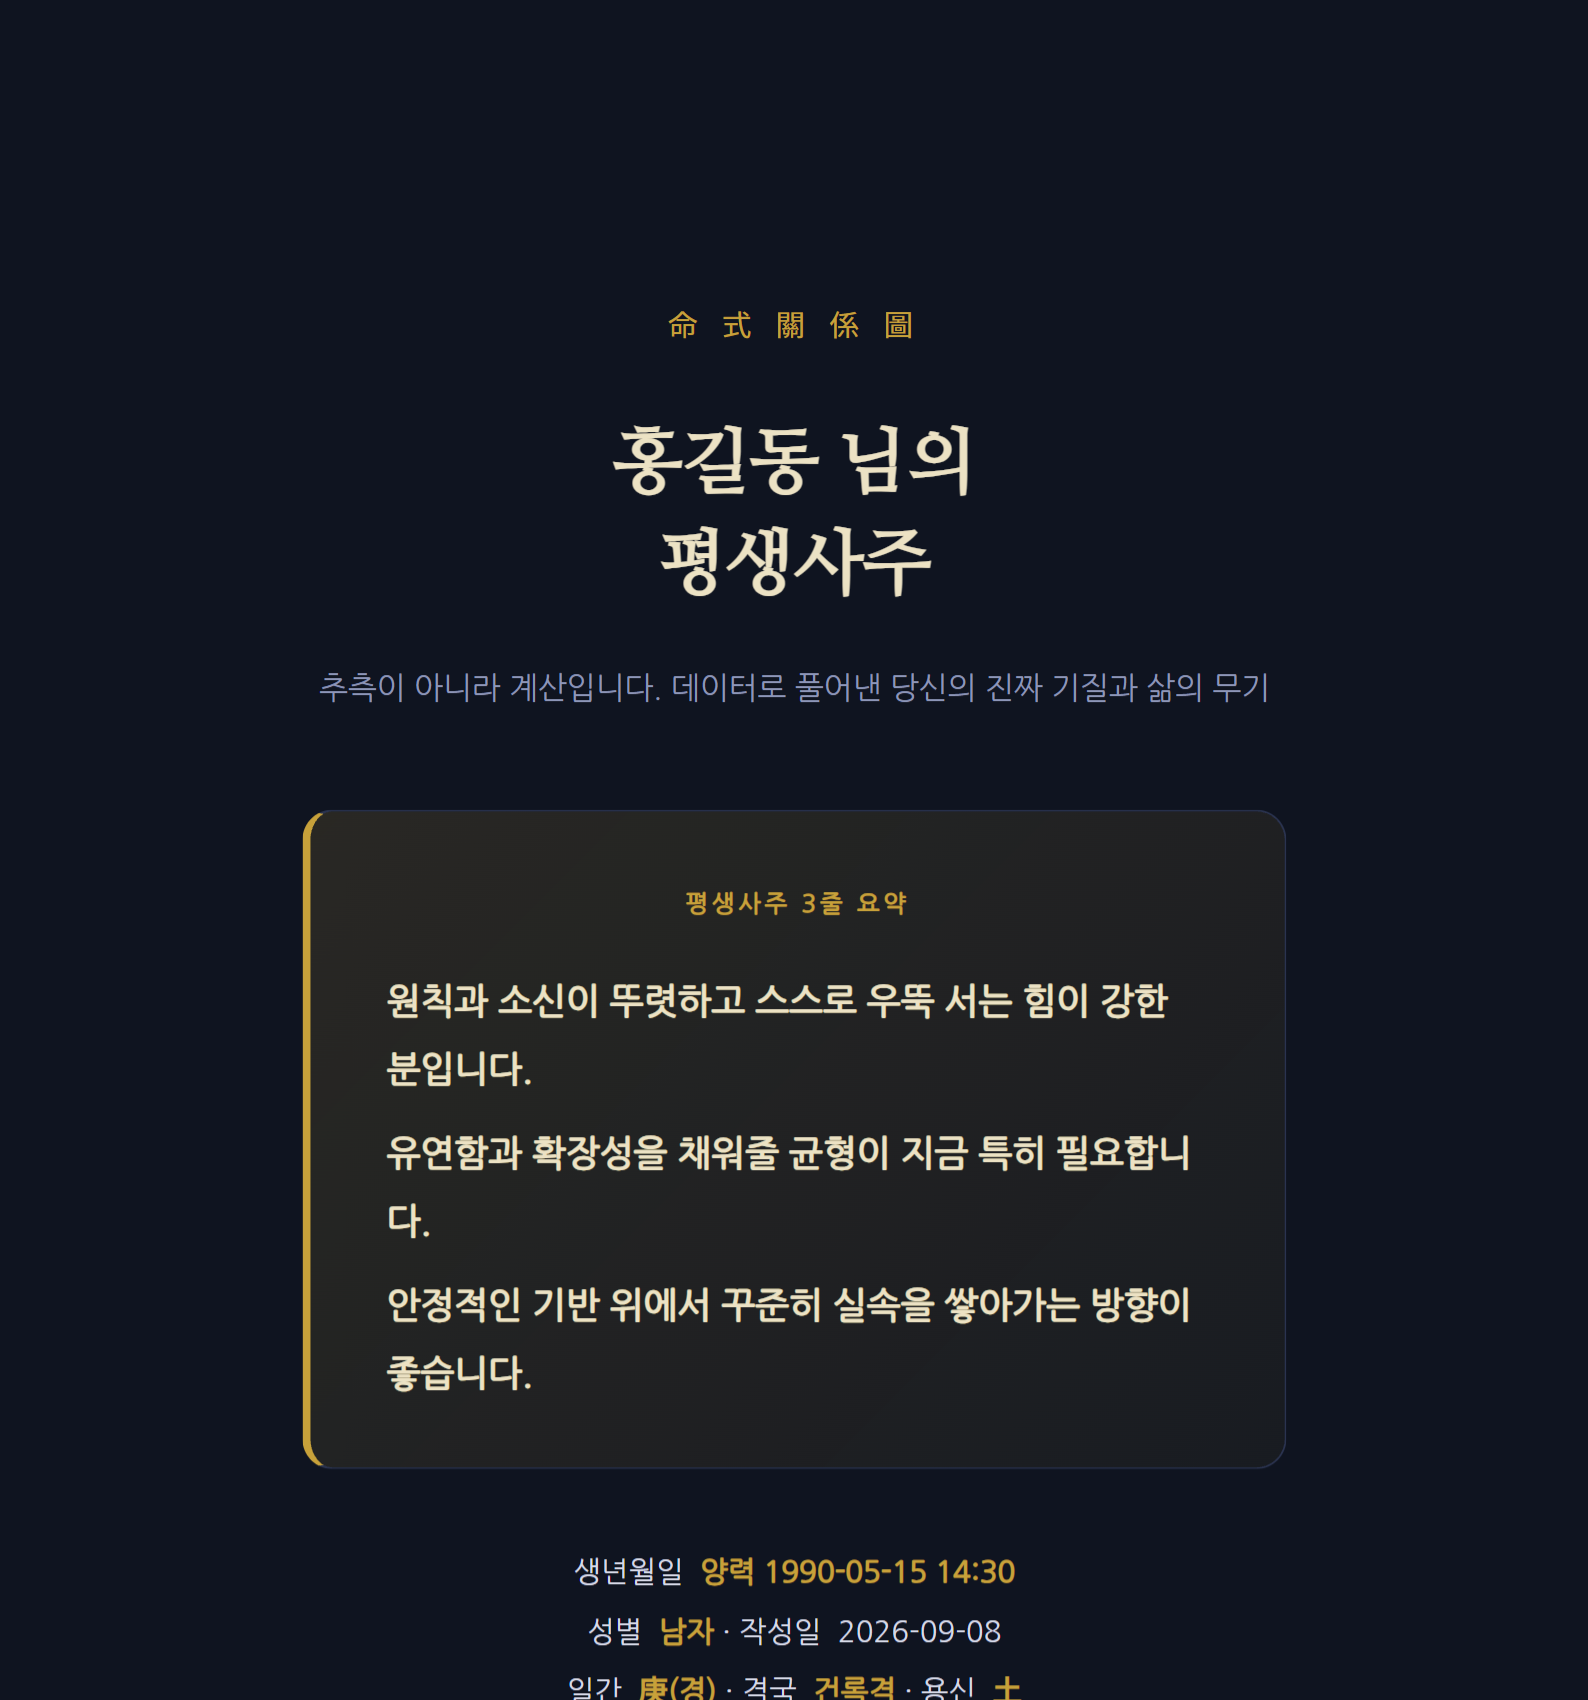
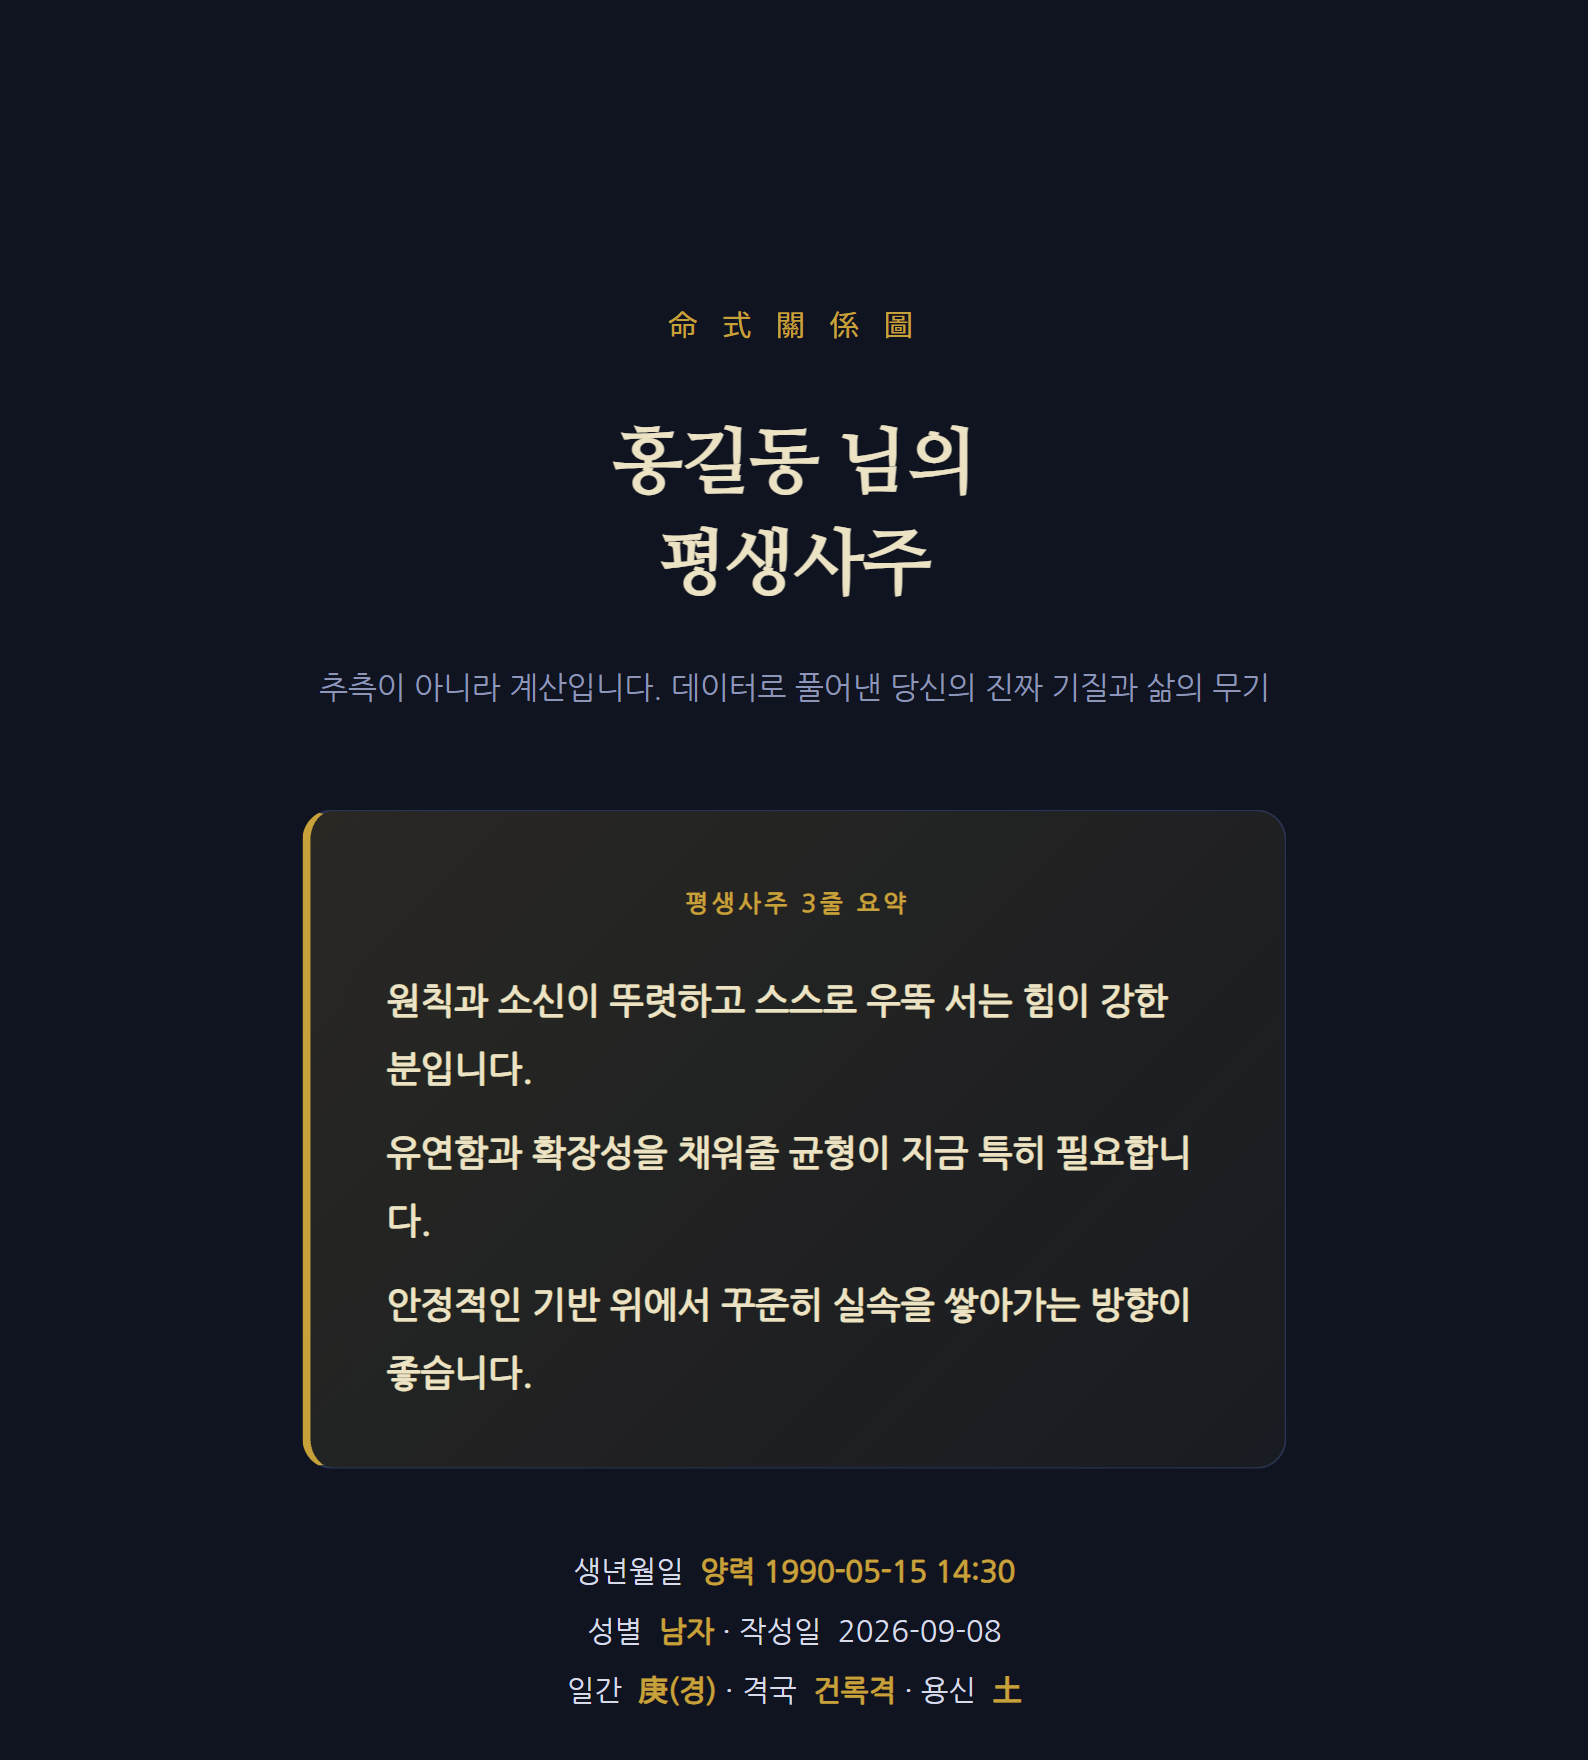
consult.html 샘플 슬라이드 크롭 지점 보정 — 문장/박스 중간 절단 수정
cover/table/chapter1 세 크롭 높이가 실제 콘텐츠 경계와 안 맞아 요약 박스와
첫 문단이 중간에서 잘려 보이던 문제를 픽셀 단위로 재측정해 수정.

diff --git a/scripts/cropSampleSlides.js b/scripts/cropSampleSlides.js
@@ -23,9 +23,9 @@ const DIR = path.join(__dirname, '..', 'public', 'samples', 'slides');
 // table: 명식 원국표(8글자·십신·신살) + 요약 바 + 오행 레이더 차트 시작부까지
 // chapter1: 챕터 제목 + 키워드 칩 + 첫 문단까지
 const CROPS = {
-  'cover.png': { out: 'cover-hook.png', height: 1700 },
-  'table.png': { out: 'table-hook.png', height: 1580 },
-  'chapter1.png': { out: 'chapter1-hook.png', height: 1580 }
+  'cover.png': { out: 'cover-hook.png', height: 1760 },
+  'table.png': { out: 'table-hook.png', height: 1700 },
+  'chapter1.png': { out: 'chapter1-hook.png', height: 900 }
 };
 
 async function cropTop(browser, srcPath, destPath, cropHeight) {
